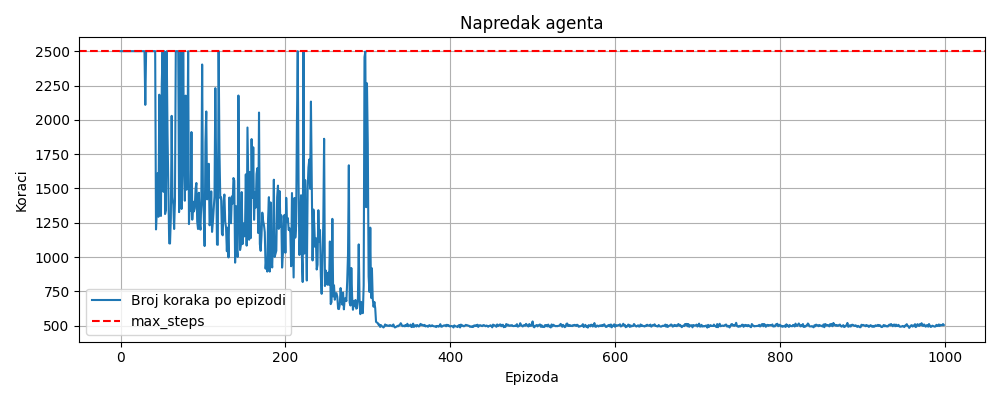
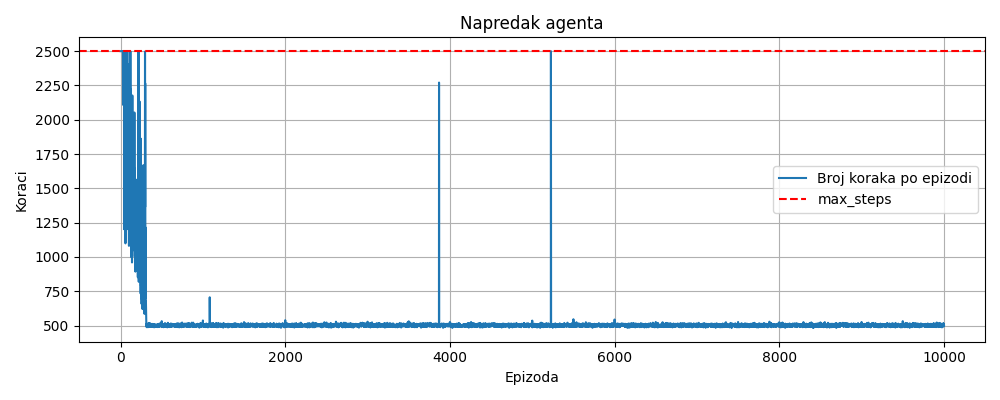
jos jedna iteracija kao gif.

diff --git a/Snake/src/main.py b/Snake/src/main.py
@@ -15,7 +15,7 @@ actions = [(0, -1), (0, 1), (-1, 0), (1, 0)]
 alpha = 0.5
 gamma = 0.99  # povećan gamma
 epsilon = 0.3
-episodes = 1000
+episodes = 10000
 max_steps = 2500
 
 random.seed(42)
@@ -150,7 +150,7 @@ for ep in range(episodes):
 
     all_steps.append(steps)
 
-    if ep in [500, episodes - 1]:
+    if ep in [episodes - 1]:
         full_path = path if reached_goal else path + bfs_path(pos, goal, maze)
         episode_paths.append((ep, full_path))
 
@@ -200,4 +200,4 @@ def update(frame_data):
 
 ani = animation.FuncAnimation(fig, update, frames=frames, interval=2, blit=True)
 plt.show()
-ani.save("zmija_500_1000.gif", writer='pillow')
+ani.save("zmija_9999.gif", writer='pillow')
